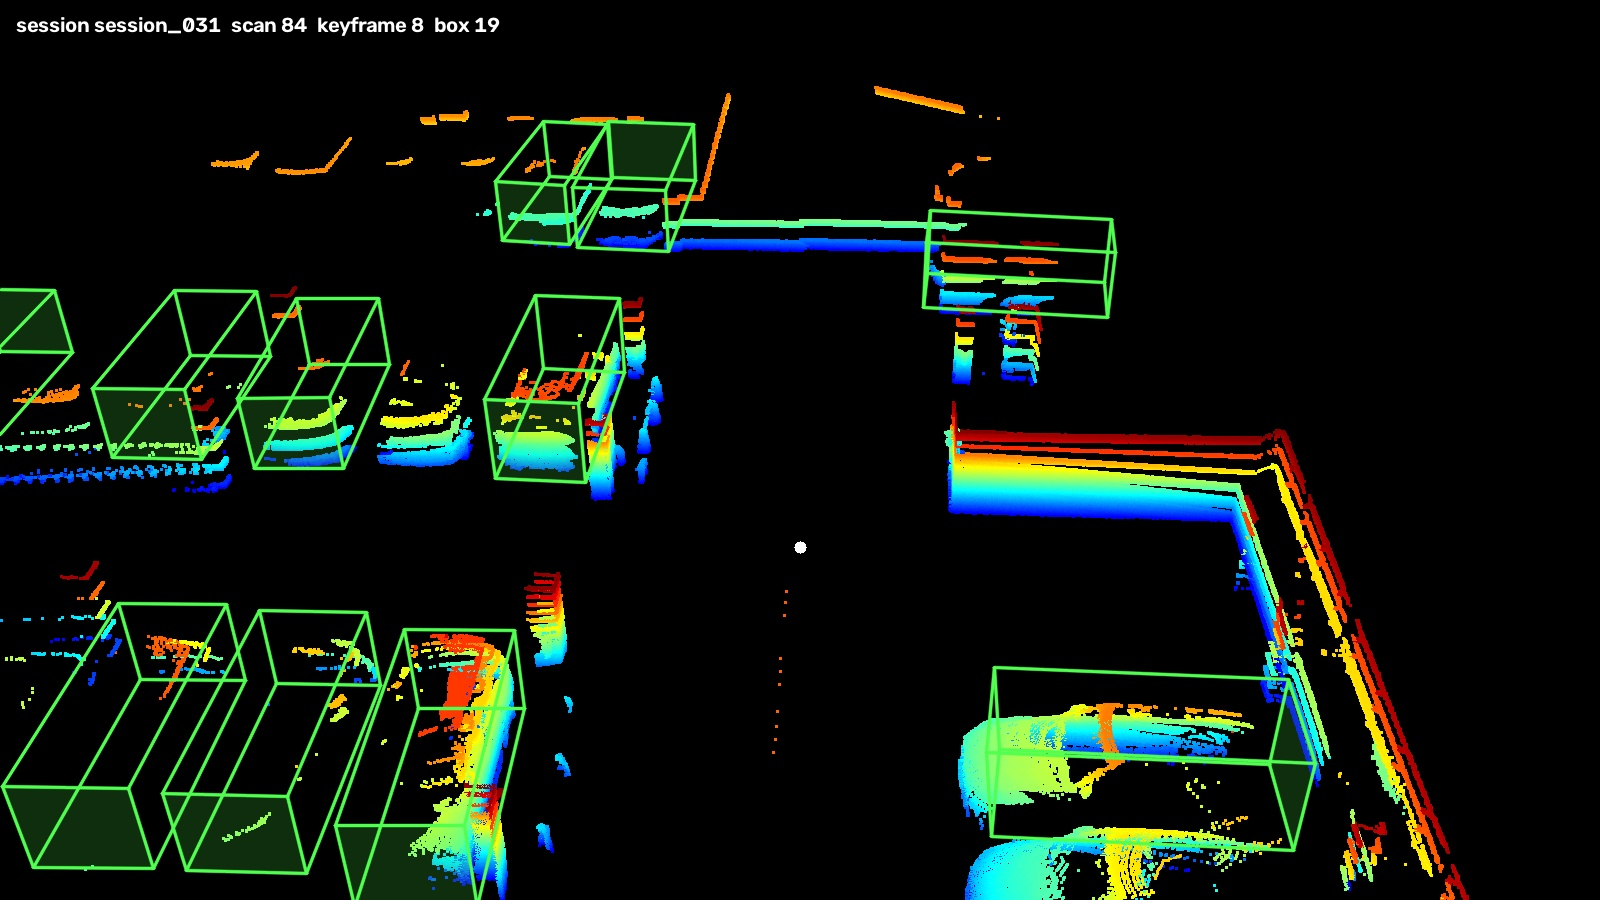
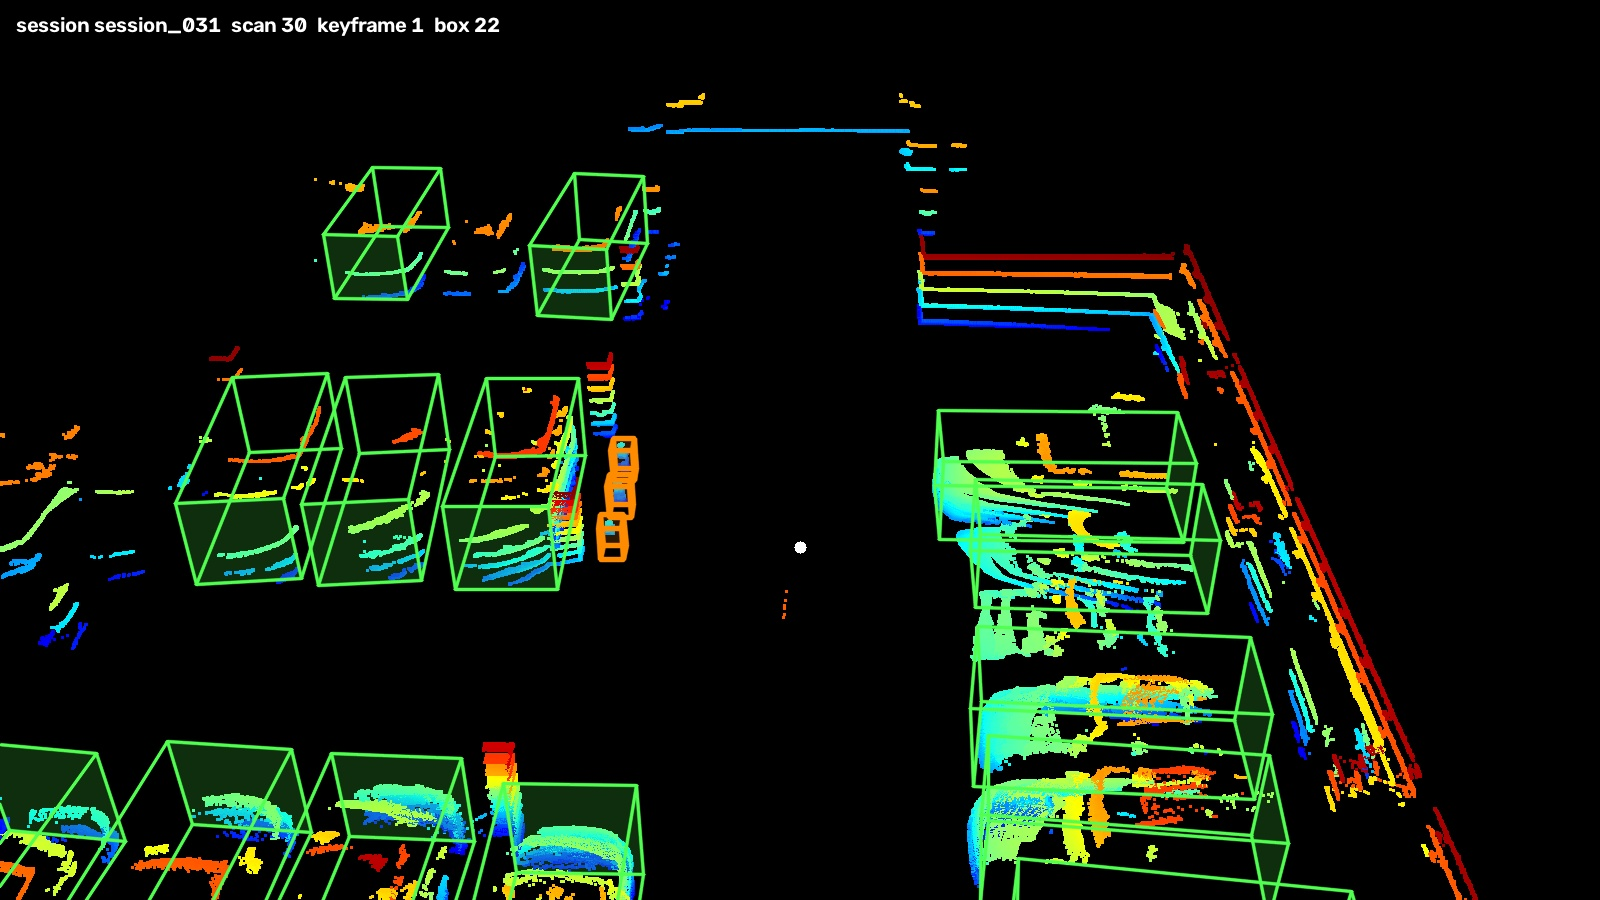
꼬깔콘을 ReBound 작업 데이터에 넣는다
지금까지 꼬깔콘은 cones.json 에만 있어서 확인용 영상에만 나왔다. 사람이
실제로 박스를 고치는 ReBound 에는 차량 407개뿐이었고, 그대로 두면 최종
라벨에 꼬깔콘이 빠진다 (평가 클래스가 car·truck·traffic_cone 인데).

to_rebound.py 에 --extra 를 넣어 합쳐 넣는다. render_lidar_3d.py 와
같은 인자다. 고친 김에 detections 가 없을 때의 처리도 바로잡았다.

detect_cones.py 가 트랙 ID 를 준다 (C000~, 차량 T000~ 과 구분). 프레임이
바뀌어도 같은 꼬깔콘은 같은 ID 다.

session_031 ReBound: car 407 + traffic_cone 42 = 449개.
물체 6개 전부 한 줄에 속한다.

Claude-Session: https://claude.ai/code/session_01GvGTyauCpumxwLHxDhvDyo

Changed region(s): [[0.0, 0.0933, 0.9375, 1.0], [0.125, 0.1556, 0.1562, 0.1867]]

diff --git a/데이터_라벨링/code/detect_cones.py b/데이터_라벨링/code/detect_cones.py
@@ -201,6 +201,7 @@ def main():
             c = np.array(b["center"]) @ T[:3, :3].T + T[:3, 3]
             obs.append((f["keyframe"], c, b))
     keep = set()
+    tid_of = {}
     if obs:
         cen = np.array([o[1][:2] for o in obs])
         tree = cKDTree(cen)
@@ -230,11 +231,17 @@ def main():
                         in_row[i] = True
                         break
 
+        tid_of = {}
+        nkeep = 0
         for i, (root, idxs, views) in enumerate(ov):
             # 줄지어 있으면 한 번만 보여도 받아들이고, 외톨이는 여러 번 봐야 한다
             need = 1 if in_row[i] else args.min_views
             if views >= need:
                 keep.update(idxs)
+                tid = f"C{nkeep:03d}"
+                nkeep += 1
+                for j in idxs:
+                    tid_of[j] = (tid, views, bool(in_row[i]))
         print(f"  물체 {len(ov)} 개 · 그중 줄지어 선 것 {int(in_row.sum())} 개")
     kept = 0
     out = {"source": "detect_bollards.py", "params": vars(args), "frames": []}
@@ -243,6 +250,10 @@ def main():
         bs = []
         for b in f["boxes"]:
             if gi in keep:
+                tid, views, row = tid_of[gi]
+                b["track_id"] = tid
+                b["views"] = views
+                b["in_row"] = row
                 bs.append(b)
             gi += 1
         kept += len(bs)

diff --git a/데이터_라벨링/code/to_rebound.py b/데이터_라벨링/code/to_rebound.py
@@ -81,6 +81,8 @@ def main():
     ap.add_argument("--poses", required=True)
     ap.add_argument("--keyframes", required=True)
     ap.add_argument("--detections", default=None)
+    ap.add_argument("--extra", default=None,
+                    help="같은 키프레임 구조의 추가 검출 (예: cones.json). 합쳐 넣는다")
     ap.add_argument("-o", "--out", required=True)
     ap.add_argument("--n-sweep", type=int, default=10)
     args = ap.parse_args()
@@ -95,6 +97,10 @@ def main():
     poses = load_poses(args.poses)
     kf = json.load(open(args.keyframes))["keyframes"]
     det = json.load(open(args.detections)) if args.detections else None
+    if det and args.extra:
+        ex = {f["keyframe"]: f["boxes"] for f in json.load(open(args.extra))["frames"]}
+        for f in det["frames"]:
+            f["boxes"] = f["boxes"] + ex.get(f["keyframe"], [])
     meta = json.load(open(os.path.join(args.session, "meta.json")))
     cal = yaml.safe_load(open(CALIB))["cameras"]
 

diff --git a/session_031/README.md b/session_031/README.md
@@ -236,7 +236,9 @@ session_031 T016 실측:
 | `--row-spacing` | 0.8~2.5 m | **줄지어 선 짝이 있으면** 한 번만 보여도 받는다 |
 | `--size` | 0.45, 0.45, 0.75 | 규격품이라 고정 |
 
-**결과: 후보 47 개 → 42 개 (물체 11 개, 그중 줄지어 선 것 6 개)**
+**결과: 후보 47 개 → 42 개 · 물체 6 개 (`C000`~`C005`, 전부 한 줄)**
+
+트랙 ID 를 주므로 프레임이 바뀌어도 같은 꼬깔콘은 같은 ID 다. 차량(`T000`…)과 구분되게 `C` 로 시작한다.
 
 ### 테이퍼보다 열 구조가 낫다
 
@@ -254,7 +256,8 @@ session_031 T016 실측:
 
 ```bash
 python3 데이터_라벨링/code/to_rebound.py <세션> --poses <deskew_on> --keyframes keyframes.json \
-    --detections <결과>/autolabel/refined.json --n-sweep 30 -o <ReBound 폴더>
+    --detections <결과>/autolabel/refined.json --extra <결과>/autolabel/cones.json \
+    --n-sweep 30 -o <ReBound 폴더>
 ```
 
 | 설정 | 값 | 왜 |
@@ -263,9 +266,11 @@ python3 데이터_라벨링/code/to_rebound.py <세션> --poses <deskew_on> --ke
 
 ```
 rebound/session_031/
-├── bounding/0~24/boxes.json          407 개  ← 여기서 작업 (confidence 100)
-├── pred_bounding/0~24/boxes.json     407 개  ← 비교용
-└── pred_bounding_original/           407 개  ← 백업
+├── bounding/0~24/boxes.json          449 개  ← 여기서 작업 (confidence 100)
+├── pred_bounding/0~24/boxes.json     449 개  ← 비교용
+└── pred_bounding_original/           449 개  ← 백업
+
+내역: `car` **407** + `traffic_cone` **42**
 ```
 
 용량 408 MB (10 스윕일 때 213 MB). 박스 `id` 가 곧 트랙 ID 라 **프레임이 바뀌어도 같은 차는 같은 ID** 다.
@@ -287,6 +292,7 @@ bash ~/Documents/Lidar_Camera_Calibration/데이터_라벨링/code/run_rebound.s
 
 ```bash
 python3 데이터_라벨링/code/render_lidar_3d.py <세션> --poses <deskew_on> --detections <refined.json> \
+    --extra <cones.json> \
     --eye=-22,0,16 --target=4,0,-0.5 --n-sweep 30 --color height \
     --drop-ground 0.25 --max-height 2.2 -o lidar3d.mp4
 ```
@@ -304,4 +310,4 @@ python3 데이터_라벨링/code/render_lidar_3d.py <세션> --poses <deskew_on>
 
 ## 10 단계부터 할 일
 
-사람이 ReBound 에서 박스 407 개를 확인·수정한다. 남은 오탐(벽·기둥)과 어긋난 박스는 **검출기 자체의 오차**이며 자동으로는 더 줄이지 못한다.
+사람이 ReBound 에서 박스 449 개(차량 407 · 꼬깔콘 42)를 확인·수정한다. 남은 오탐(벽·기둥)과 어긋난 박스는 **검출기 자체의 오차**이며 자동으로는 더 줄이지 못한다.
